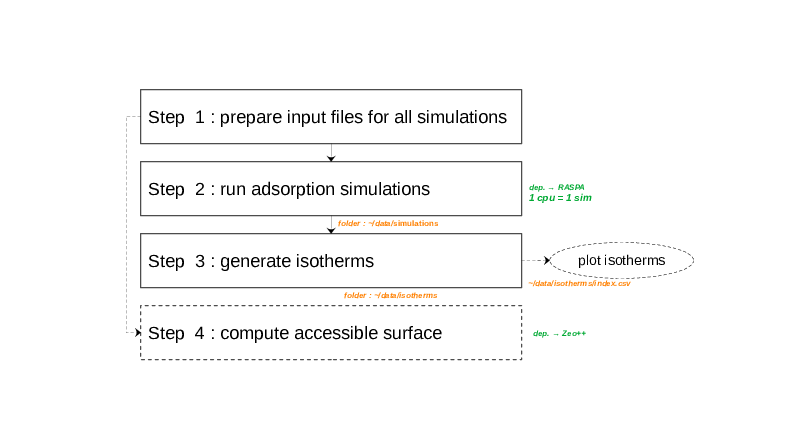
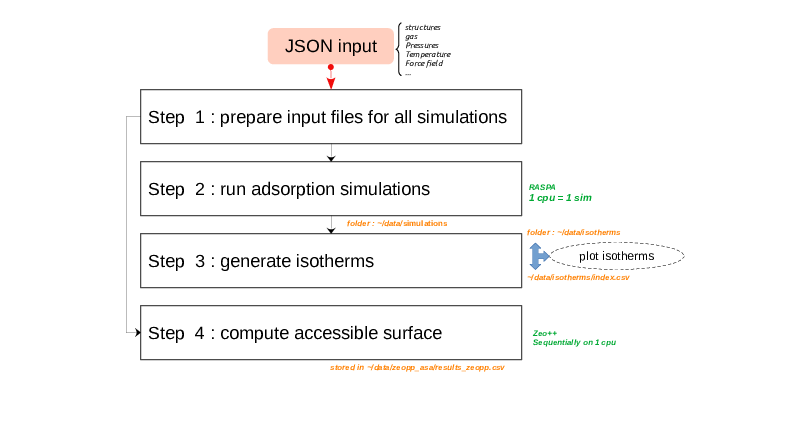
Add calculation of accessible surface area using Zeopp.

diff --git a/example_adsorption_workflow.py b/example_adsorption_workflow.py
@@ -20,10 +20,10 @@ def main():
         Run the script to execute the workflow based on provided input arguments.
     """
     args = parse_arguments()
-    sim_dir_names = prepare_input_files(args)   # STEP 1
-    run_simulations(args,sim_dir_names)         # STEP 2
-    check_isotherms(args,sim_dir_names)         # STEP 3
-    #get_geometrical_features(args)             # STEP 4 : in progress
+    cif_names, sim_dir_names = prepare_input_files(args)    # STEP 1
+    run_simulations(args,sim_dir_names)                     # STEP 2
+    check_isotherms(args,sim_dir_names)                     # STEP 3
+    get_geometrical_features(args,cif_names)                # STEP 4
 
 def parse_arguments():
     """
@@ -59,16 +59,34 @@ def run_test(args):
     args.input_file      = f"{os.environ.get('PACKAGE')}/tests/test_isotherms/input.json"
     print(f"------------------------ Running tests ------------------------\n")
     try:
-        sim_dir_names = prepare_input_files(args)    # STEP 1
+        cif_names, sim_dir_names = prepare_input_files(args)    # STEP 1
         run_simulations(args,sim_dir_names)          # STEP 2
         check_isotherms(args,sim_dir_names)          # STEP 3
         test_isotherms(args)
+        get_geometrical_features(args,cif_names)               # STEP 4
+        test_zeopp(args)
         print("Tests succeeded")
     except Exception as e:
         print(e)
         print("Tests NOT succeeded")
     print(f"------------------------ End of tests ------------------------\n")
     exit(0)
+
+def test_zeopp(args):
+    """
+    Count the number of lines in the output csv files with surface 
+    areas and compare to the targeted values.
+
+    Args:
+        args (argparse.Namespace): Parsed command-line arguments.
+    """
+    target_file  = os.path.abspath(f"{os.environ.get('PACKAGE')}/tests/test_zeopp_asa/results_zeopp.csv")
+    test_file    = os.path.abspath(f"{os.environ.get('HOME')}/tests/zeopp_asa/results_zeopp.csv")
+    with open(target_file, 'rb') as file1, open(test_file, 'rb') as file2:
+        content1 = file1.read()
+        content2 = file2.read()
+        if content1 != content2:
+            raise Exception("Error : Results with Zeo++ test are different from expected.")
 
 def test_isotherms(args):
     """
@@ -81,8 +99,7 @@ def test_isotherms(args):
     target_files  = os.listdir(f"{os.environ.get('PACKAGE')}/tests/test_isotherms/isotherms")
     test_files    = os.listdir(f"{os.environ.get('HOME')}/tests/isotherms")
     if len(target_files) !=  len(test_files):
-        print("Error : Number of isotherms do not match. Delete ~/tests repository before running tests.")
-        exit(0)
+        raise Exception("Error : Number of isotherms do not match. Remove ~/tests repository before running tests.")
     else :
         for filename in [ isoname for isoname in test_files if isoname[:3] == 'iso']:
             line_count = 0
@@ -90,8 +107,7 @@ def test_isotherms(args):
                 for line in file:
                     line_count += 1
             if line_count != 6: # 5 points + header
-                print(f"Error : Number of lines in isotherms files do not match. ")
-                exit(0)
+                raise Exception(f"Error : Number of lines in isotherms files do not match. ")
 
 def prepare_input_files(args):
     """
@@ -115,12 +131,12 @@ def prepare_input_files(args):
     print(f"Storing data in {args.output_dir}\n")
 
     # Get CIF files from the structures provided in the JSON file
-    cifnames = cif_from_json(args.input_file, args.output_dir,
+    cif_names = cif_from_json(args.input_file, args.output_dir,
                              database='mofxdb', substring="coremof-2019",
                              verbose=False)
 
     # Parse the JSON file and extract input parameters
-    l_dict_parameters = parse_json(args.input_file, cifnames=cifnames)
+    l_dict_parameters = parse_json(args.input_file, cifnames=cif_names)
 
     # Create inputs for RASPA for each set of parameters
     sim_dir_names = []
@@ -141,7 +157,7 @@ def prepare_input_files(args):
     # Create a job script for all simulations (each using 1 CPU)
     create_job_script(args.output_dir, sim_dir_names)
 
-    return sim_dir_names
+    return cif_names, sim_dir_names
 
 def run_simulations(args,sim_dir_names):
     """
@@ -169,7 +185,7 @@ def check_isotherms(args,sim_dir_names=None):
     check_simulations(args.output_dir,sim_dir_names, verbose=False)
     output_isotherms_to_csv(args.output_dir,sim_dir_names,args.tests)
 
-def get_geometrical_features(args,cif_files):
+def get_geometrical_features(args,cif_names):
     """
     Calculate geometrical features of the porous crystals using Zeo++.
 
@@ -177,7 +193,7 @@ def get_geometrical_features(args,cif_files):
         args (argparse.Namespace): Parsed command-line arguments.
     """
     run_zeopp_asa(args.output_dir,
-                cif_files=[f'{args.output_dir}/cif/{structure}.cif' for structure in cif_files])
+                cif_files=[f'{args.output_dir}/cif/{structure}.cif' for structure in cif_names])
 
 if __name__ == "__main__":
     main()

diff --git a/src/zeopp.py b/src/zeopp.py
@@ -2,19 +2,17 @@ import re
 import pandas as pd
 import glob,os
 
-#data_dir = os.environ.get('DATA_DIR')
-#zeopp_dir = os.environ.get('ZEO_DIR')
-#zeopp_output_dir =  f'{data_dir}/zeopp_asa'
-
-#os.makedirs(zeopp_output_dir,exist_ok=True)
+zeopp_dir = os.environ.get('ZEO_DIR')
 
 def run_zeopp_asa(data_dir,
                   cif_files=None,
                   chan_radius=1.2,
                   probe_radius = 1.2,
-                  num_samples_per_atom = 2000):
+                  num_samples_per_atom = 2000,
+                  verbose=False):
 
     # Run Zeo++ on all selected cifs files or found in the default directory
+    print(f"Running Zeo++ to compute accessible surface area...")
     if cif_files is not None:
         assert isinstance(cif_files, list), 'Argument cif_files must be a list.'
         for file in cif_files:
@@ -22,6 +20,8 @@ def run_zeopp_asa(data_dir,
     else:
         cif_files=glob.glob(f'{data_dir}/cif/*cif')
 
+    zeopp_output_dir = f"{data_dir}/zeopp_asa/"
+    os.makedirs(zeopp_output_dir,exist_ok=True)
     for cif_file in cif_files:
         basename = os.path.basename(cif_file)
         cif_basename, extension = os.path.splitext(basename)
@@ -91,4 +91,6 @@ def run_zeopp_asa(data_dir,
     df = pd.DataFrame(data)
     result_filename = f'{zeopp_output_dir}/results_zeopp.csv'
     df.to_csv(result_filename,index=False)
-    print(f"All data extracted from Zeo++ in {zeopp_output_dir} have been stored in {result_filename}.")
+    print(f"Results stored in results_zeopp.csv.")
+    if verbose :
+        print(f"All data extracted from Zeo++ in {zeopp_output_dir} have been stored in {result_filename}.")

diff --git a/README.md b/README.md
@@ -92,10 +92,10 @@ python $PACKAGE/example-workflow-adsorption.py -i path/to/myinput.json -o path/t
 ```
 By default, the output path is `~/data` and the input file should be written on the root directory (`~/data/input.json`).
 
-<div style="text-align:center;">
-  <img src="./figures/diagram_workflow.png" alt="diagram" />
-  <p style="text-align:center;"><i>Diagram of the workflow</i></p>
-</div>
+<p align="center">
+  <img src="./figures/diagram_workflow.png" alt="Diagram of the workflow" width="600" height="400" />
+</p>
+<p align="center"><i>Diagram of the workflow</i></p>
 
 ## Tests
 
@@ -133,7 +133,7 @@ e.g : `python src/download_cif_from_mofxdb.py KAXQIL`
 - [x] Add a function to check RASPA outputs `src.convert_data.output_isotherms_to_csv()`
 - [x] Add an index file created with the data directories, in order to store the parameters of each simulation
 - [x] Add a script to store isotherms in CSV format
-- [ ] Step 4 : Compute Accessible Surface Are (ASA) from the crystallographic structure with Zeo++
+- [x] Step 4 : Compute Accessible Surface Are (ASA) from the crystallographic structure with Zeo++
 - [x] Add a test to verify the isotherms have been recovered from simulation outputs
 ## To do (Optional)
 
